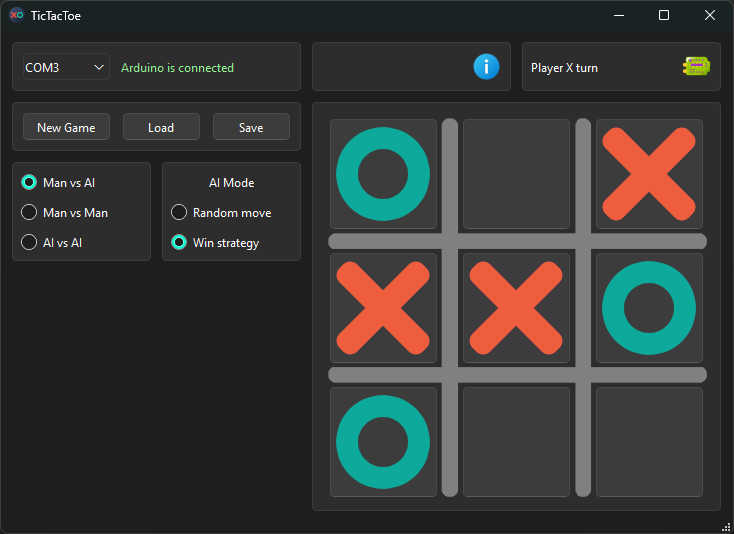
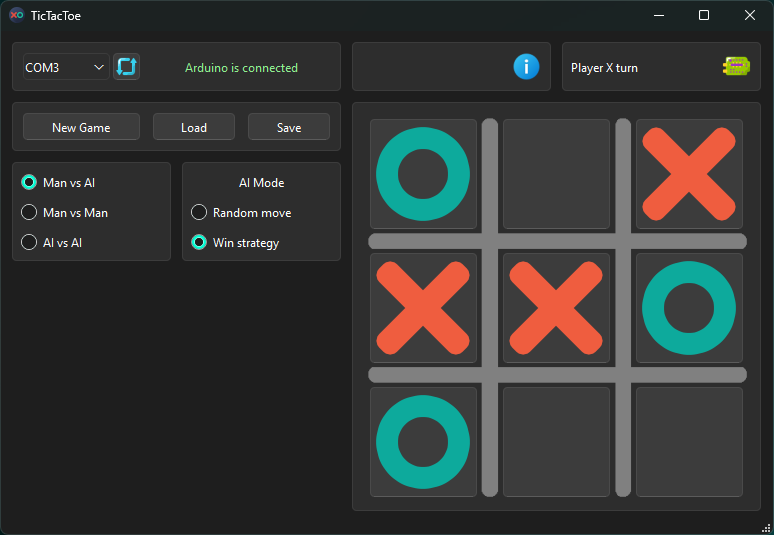
add client refresh button

diff --git a/src/win/Client_Lab_3/build/Desktop_Qt_6_8_0_MinGW_64_bit-Debug/ui_mainwindow.h b/src/win/Client_Lab_3/build/Desktop_Qt_6_8_0_MinGW_64_bit-Debug/ui_mainwindow.h
@@ -10,6 +10,7 @@
 #define UI_MAINWINDOW_H
 
 #include <QtCore/QVariant>
+#include <QtGui/QIcon>
 #include <QtWidgets/QApplication>
 #include <QtWidgets/QComboBox>
 #include <QtWidgets/QFrame>
@@ -34,6 +35,7 @@ public:
     QFrame *frame_port;
     QComboBox *comboBoxPorts;
     QLabel *labelPort;
+    QPushButton *refreshButton;
     QFrame *frame_stats;
     QLabel *label_pc_msg;
     QLabel *label_info_icon;
@@ -66,31 +68,31 @@ public:
     {
         if (MainWindow->objectName().isEmpty())
             MainWindow->setObjectName("MainWindow");
-        MainWindow->resize(732, 527);
+        MainWindow->resize(772, 530);
         centralwidget = new QWidget(MainWindow);
         centralwidget->setObjectName("centralwidget");
         frame_main_buttons = new QFrame(centralwidget);
         frame_main_buttons->setObjectName("frame_main_buttons");
         frame_main_buttons->setEnabled(true);
-        frame_main_buttons->setGeometry(QRect(10, 70, 291, 51));
+        frame_main_buttons->setGeometry(QRect(10, 70, 331, 51));
         frame_main_buttons->setFrameShape(QFrame::Shape::StyledPanel);
         frame_main_buttons->setFrameShadow(QFrame::Shadow::Raised);
         newButton = new QPushButton(frame_main_buttons);
         newButton->setObjectName("newButton");
-        newButton->setEnabled(false);
-        newButton->setGeometry(QRect(10, 10, 91, 31));
+        newButton->setEnabled(true);
+        newButton->setGeometry(QRect(10, 10, 121, 31));
         loadButton = new QPushButton(frame_main_buttons);
         loadButton->setObjectName("loadButton");
-        loadButton->setEnabled(false);
-        loadButton->setGeometry(QRect(110, 10, 81, 31));
+        loadButton->setEnabled(true);
+        loadButton->setGeometry(QRect(140, 10, 86, 31));
         saveButton = new QPushButton(frame_main_buttons);
         saveButton->setObjectName("saveButton");
-        saveButton->setEnabled(false);
-        saveButton->setGeometry(QRect(200, 10, 81, 31));
+        saveButton->setEnabled(true);
+        saveButton->setGeometry(QRect(235, 10, 86, 31));
         frame_port = new QFrame(centralwidget);
         frame_port->setObjectName("frame_port");
         frame_port->setEnabled(true);
-        frame_port->setGeometry(QRect(10, 10, 291, 51));
+        frame_port->setGeometry(QRect(10, 10, 331, 51));
         frame_port->setFrameShape(QFrame::Shape::StyledPanel);
         frame_port->setFrameShadow(QFrame::Shadow::Raised);
         comboBoxPorts = new QComboBox(frame_port);
@@ -99,11 +101,19 @@ public:
         comboBoxPorts->setModelColumn(0);
         labelPort = new QLabel(frame_port);
         labelPort->setObjectName("labelPort");
-        labelPort->setGeometry(QRect(110, 10, 171, 31));
+        labelPort->setGeometry(QRect(140, 10, 181, 31));
         labelPort->setAutoFillBackground(false);
+        labelPort->setAlignment(Qt::AlignmentFlag::AlignCenter);
+        refreshButton = new QPushButton(frame_port);
+        refreshButton->setObjectName("refreshButton");
+        refreshButton->setGeometry(QRect(100, 10, 31, 31));
+        QIcon icon;
+        icon.addFile(QString::fromUtf8(":/resources/assets/refresh.png"), QSize(), QIcon::Mode::Normal, QIcon::State::Off);
+        refreshButton->setIcon(icon);
+        refreshButton->setIconSize(QSize(25, 25));
         frame_stats = new QFrame(centralwidget);
         frame_stats->setObjectName("frame_stats");
-        frame_stats->setGeometry(QRect(310, 10, 201, 51));
+        frame_stats->setGeometry(QRect(350, 10, 201, 51));
         frame_stats->setFrameShape(QFrame::Shape::StyledPanel);
         frame_stats->setFrameShadow(QFrame::Shadow::Raised);
         label_pc_msg = new QLabel(frame_stats);
@@ -117,24 +127,24 @@ public:
         frame_game_modes = new QFrame(centralwidget);
         frame_game_modes->setObjectName("frame_game_modes");
         frame_game_modes->setEnabled(true);
-        frame_game_modes->setGeometry(QRect(10, 130, 141, 101));
+        frame_game_modes->setGeometry(QRect(10, 130, 161, 101));
         frame_game_modes->setFrameShape(QFrame::Shape::StyledPanel);
         frame_game_modes->setFrameShadow(QFrame::Shadow::Raised);
         radioButton_mai = new QRadioButton(frame_game_modes);
         radioButton_mai->setObjectName("radioButton_mai");
-        radioButton_mai->setGeometry(QRect(10, 10, 121, 22));
+        radioButton_mai->setGeometry(QRect(10, 10, 141, 22));
         radioButton_mai->setAutoFillBackground(true);
         radioButton_mvm = new QRadioButton(frame_game_modes);
         radioButton_mvm->setObjectName("radioButton_mvm");
-        radioButton_mvm->setGeometry(QRect(10, 40, 121, 22));
+        radioButton_mvm->setGeometry(QRect(10, 40, 141, 22));
         radioButton_mvm->setAutoFillBackground(true);
         radioButton_ava = new QRadioButton(frame_game_modes);
         radioButton_ava->setObjectName("radioButton_ava");
-        radioButton_ava->setGeometry(QRect(10, 70, 121, 22));
+        radioButton_ava->setGeometry(QRect(10, 70, 141, 22));
         radioButton_ava->setAutoFillBackground(true);
         frame_board = new QFrame(centralwidget);
         frame_board->setObjectName("frame_board");
-        frame_board->setGeometry(QRect(310, 70, 411, 411));
+        frame_board->setGeometry(QRect(350, 70, 411, 411));
         frame_board->setFrameShape(QFrame::Shape::StyledPanel);
         frame_board->setFrameShadow(QFrame::Shadow::Raised);
         labelBoard = new QLabel(frame_board);
@@ -182,27 +192,27 @@ public:
         frame_ai_modes = new QFrame(centralwidget);
         frame_ai_modes->setObjectName("frame_ai_modes");
         frame_ai_modes->setEnabled(true);
-        frame_ai_modes->setGeometry(QRect(160, 130, 141, 101));
+        frame_ai_modes->setGeometry(QRect(180, 130, 161, 101));
         frame_ai_modes->setFrameShape(QFrame::Shape::StyledPanel);
         frame_ai_modes->setFrameShadow(QFrame::Shadow::Raised);
         radioButton_ws = new QRadioButton(frame_ai_modes);
         radioButton_ws->setObjectName("radioButton_ws");
-        radioButton_ws->setGeometry(QRect(10, 70, 121, 22));
+        radioButton_ws->setGeometry(QRect(10, 70, 141, 22));
         radioButton_ws->setAutoFillBackground(true);
         radioButton_rm = new QRadioButton(frame_ai_modes);
         radioButton_rm->setObjectName("radioButton_rm");
-        radioButton_rm->setGeometry(QRect(10, 40, 121, 22));
+        radioButton_rm->setGeometry(QRect(10, 40, 141, 22));
         radioButton_rm->setAutoFillBackground(true);
         label = new QLabel(frame_ai_modes);
         label->setObjectName("label");
-        label->setGeometry(QRect(10, 10, 121, 21));
+        label->setGeometry(QRect(10, 10, 141, 21));
         label->setTextFormat(Qt::TextFormat::AutoText);
         label->setScaledContents(false);
         label->setAlignment(Qt::AlignmentFlag::AlignCenter);
         label->setWordWrap(false);
         frame_2 = new QFrame(centralwidget);
         frame_2->setObjectName("frame_2");
-        frame_2->setGeometry(QRect(520, 10, 201, 51));
+        frame_2->setGeometry(QRect(560, 10, 201, 51));
         frame_2->setAutoFillBackground(false);
         frame_2->setFrameShape(QFrame::Shape::StyledPanel);
         frame_2->setFrameShadow(QFrame::Shadow::Raised);
@@ -217,7 +227,7 @@ public:
         MainWindow->setCentralWidget(centralwidget);
         menubar = new QMenuBar(MainWindow);
         menubar->setObjectName("menubar");
-        menubar->setGeometry(QRect(0, 0, 732, 21));
+        menubar->setGeometry(QRect(0, 0, 772, 21));
         MainWindow->setMenuBar(menubar);
         statusbar = new QStatusBar(MainWindow);
         statusbar->setObjectName("statusbar");
@@ -236,6 +246,7 @@ public:
         saveButton->setText(QCoreApplication::translate("MainWindow", "Save", nullptr));
         comboBoxPorts->setPlaceholderText(QCoreApplication::translate("MainWindow", "Select Port", nullptr));
         labelPort->setText(QCoreApplication::translate("MainWindow", "Select COM Port with Arduino", nullptr));
+        refreshButton->setText(QString());
         label_pc_msg->setText(QCoreApplication::translate("MainWindow", "Info here", nullptr));
         label_info_icon->setText(QString());
         radioButton_mai->setText(QCoreApplication::translate("MainWindow", "Man vs AI", nullptr));

diff --git a/src/win/Client_Lab_3/mainwindow.cpp b/src/win/Client_Lab_3/mainwindow.cpp
@@ -146,6 +146,7 @@ MainWindow::MainWindow(QWidget *parent)
             this,
             SLOT(onComboBoxPortChanged(const QString &)));
 
+    ui->frame_main_buttons->setEnabled(false);
 }
 
 MainWindow::~MainWindow()
@@ -183,13 +184,11 @@ void MainWindow::on_newButton_clicked()
     resetValues();
     game_started = "1";
 
-    ui->label_pc_msg->setText("Game started");
-
     if (game_mode == "ava")
     {
-        ui->newButton->setEnabled(false);
-        ui->loadButton->setEnabled(false);
-        ui->saveButton->setEnabled(false);
+        ui->frame_main_buttons->setEnabled(false);
+        ui->frame_game_modes->setEnabled(false);
+        ui->frame_ai_modes->setEnabled(false);
 
         ui->label_pc_msg->setText("AI vs AI mode started");
 
@@ -205,9 +204,9 @@ void MainWindow::on_newButton_clicked()
             //Sleep(150);
         }
 
-        ui->newButton->setEnabled(true);
-        ui->loadButton->setEnabled(true);
-        ui->saveButton->setEnabled(true);
+        ui->frame_main_buttons->setEnabled(true);
+        ui->frame_game_modes->setEnabled(true);
+        ui->frame_ai_modes->setEnabled(true);
 
         ui->label_pc_msg->setText("Game is over");
     }
@@ -216,10 +215,13 @@ void MainWindow::on_newButton_clicked()
         // QString receivedXml = sendArduino();
         // parseXML(receivedXml);
         parseXML(sendArduino());
+
+        if (game_started == "1"){
+            ui->label_pc_msg->setText("Game started");
+        }
+
         updateGameBoard();
     }
-
-
 }
 void MainWindow::on_loadButton_clicked()
 {
@@ -241,6 +243,8 @@ void MainWindow::on_saveButton_clicked(){
 
 void MainWindow::loadComPorts()
 {
+    ui->comboBoxPorts->clear();
+
     // Список для збереження імен портів
     QStringList comPortList;
 
@@ -278,25 +282,33 @@ void MainWindow::onComboBoxPortChanged(const QString &port)
         ui->labelPort->setStyleSheet("QLabel { color : lightgreen; }");
 
         // Активуємо кнопки
-        ui->newButton->setEnabled(true);
-        ui->loadButton->setEnabled(true);
-        ui->saveButton->setEnabled(true);
+        ui->frame_main_buttons->setEnabled(true);
 
         portArduino = port;
     }
     else {
-        // Якщо помилка при зв'язку з Arduino
-        ui->labelPort->setText(QString("Failed to connect via %1").arg(port));
-        ui->labelPort->setStyleSheet("QLabel { color : red; }");
+        if (port.length() > 0) {
+            // Якщо помилка при зв'язку з Arduino
+            ui->labelPort->setText(QString("Failed to connect via %1").arg(port));
+            ui->labelPort->setStyleSheet("QLabel { color : red; }");
+        }
+        else {
+            ui->labelPort->setText(QString("Select COM Port with Arduino"));
+            ui->labelPort->setStyleSheet("QLabel { color : lightblue; }");
+        }
 
         // Деактивуємо кнопки
-        ui->newButton->setEnabled(false);
-        ui->loadButton->setEnabled(false);
-        ui->saveButton->setEnabled(false);
+        ui->frame_main_buttons->setEnabled(false);
     }
+
+    updateGameBoard();
+
 }
 
-
+void MainWindow::on_refreshButton_clicked()
+{
+    loadComPorts();
+}
 
 QString MainWindow::sendArduino() {
 
@@ -439,14 +451,17 @@ void MainWindow::on_button_33_clicked() { add_player_turn(2, 2); }
 
 void MainWindow::on_radioButton_mai_clicked(){
     game_mode = "mva";
+    // ui->frame_ai_modes->setEnabled(true);
     // qDebug() << "game_mode:" << game_mode;
 }
 void MainWindow::on_radioButton_mvm_clicked(){
     game_mode = "mvm";
+    // ui->frame_ai_modes->setEnabled(false);
     // qDebug() << "game_mode:" << game_mode;
 }
 void MainWindow::on_radioButton_ava_clicked(){
     game_mode = "ava";
+    // ui->frame_ai_modes->setEnabled(true);
     // qDebug() << "game_mode:" << game_mode;
 }
 
@@ -458,4 +473,8 @@ void MainWindow::on_radioButton_ws_clicked(){
     ai_strategy = "win";
     // qDebug() << "ai_strategy:" << ai_strategy;
 }
+
+
+
+
 

diff --git a/src/win/Client_Lab_3/mainwindow.h b/src/win/Client_Lab_3/mainwindow.h
@@ -46,6 +46,7 @@ private slots:
     void on_radioButton_rm_clicked();
     void on_radioButton_ws_clicked();
 
+    void on_refreshButton_clicked();
 
 private:
     Ui::MainWindow *ui;
